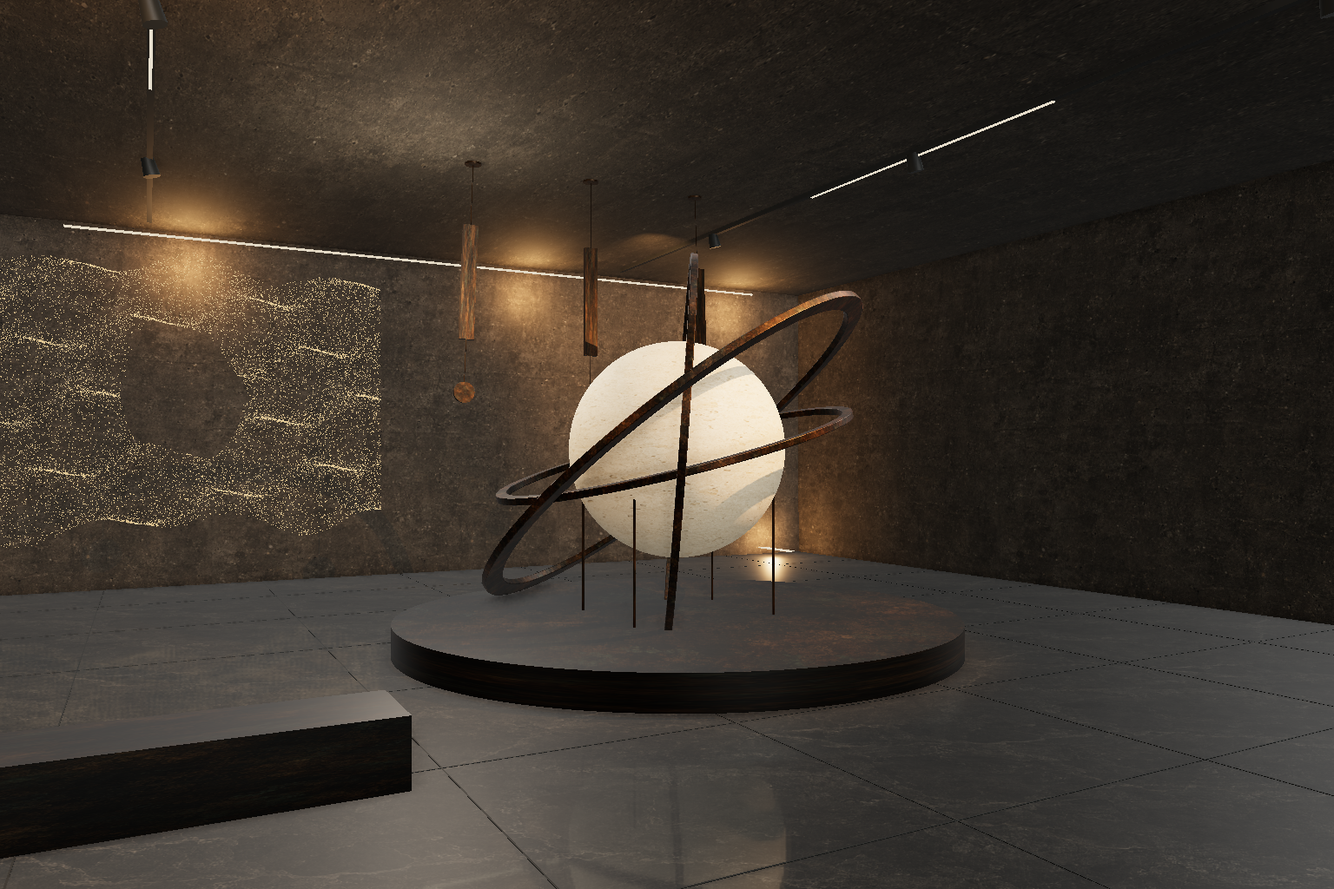
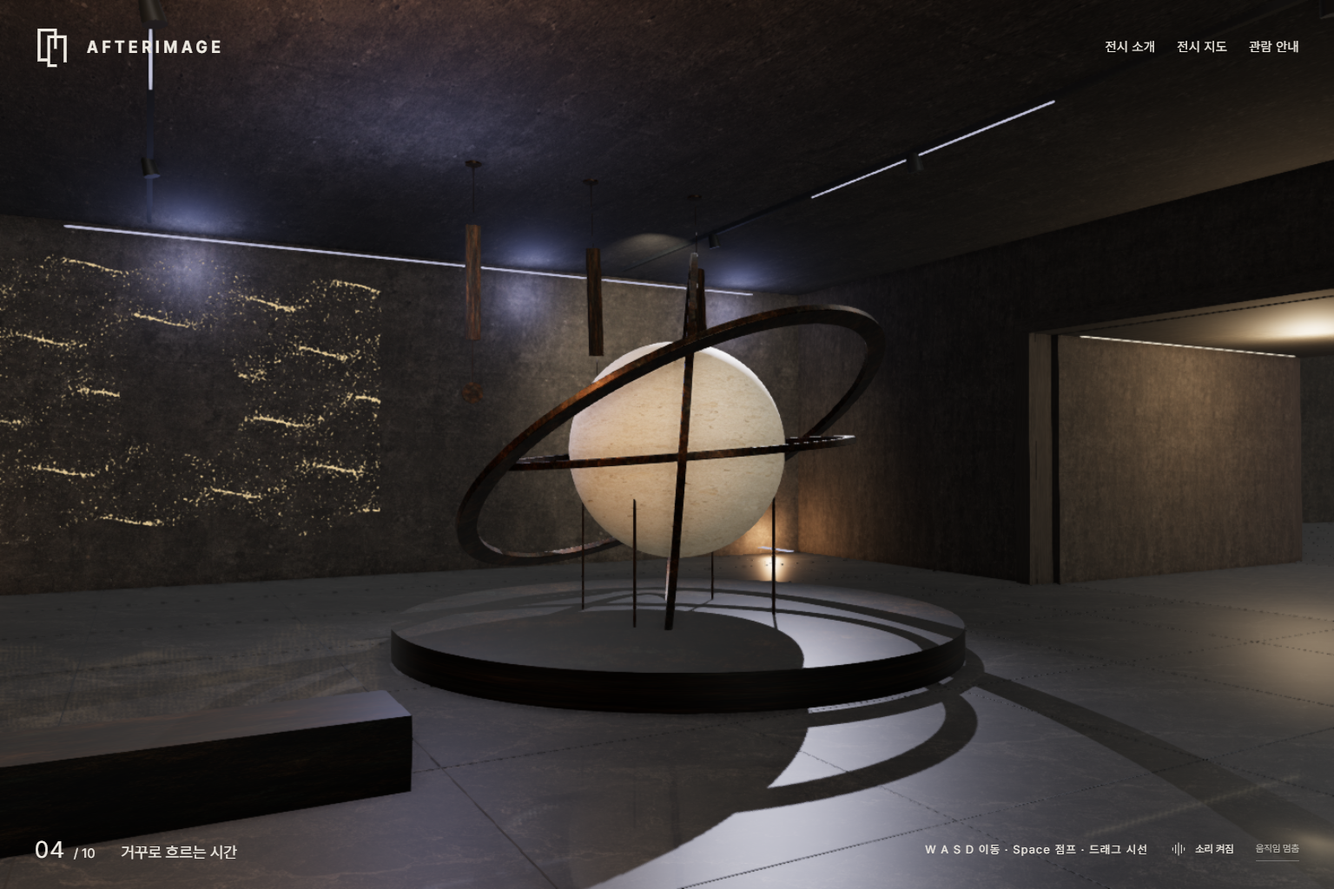
Separate artwork descriptions and tailor room lighting with mobile running

diff --git a/src/scene.js b/src/scene.js
@@ -13,6 +13,7 @@ import {sceneEffects} from './scene-effects';
 import {batchRoomArchitecture} from './static-room-batches';
 import {prepareRooms} from './room-preparation';
 import {lightingRig} from './lighting-rig';
+import {roomLighting} from './room-lighting';
 import {preparationFrame} from './preparation-scheduler';
 
 export async function createExhibition(host,events,{signal}={}){
@@ -33,6 +34,8 @@ export async function createExhibition(host,events,{signal}={}){
  const look=angularMotion(camera.rotation.y,camera.rotation.x,-1.1,1.1);
  const orbit=angularMotion(0,.05,-.2,.55);let rotationSpeed=0,stepDistance=0,shadowTime=0,renderScale=1,perfTime=0,perfFrames=0,perfNext=performance.now()+3500;
  const hemi=new T.HemisphereLight(0xb9c5ce,0x3a3025,.9);scene.add(hemi);
+ let lightMood=roomLighting[0];const moodSky=new T.Color(lightMood.sky),moodGround=new T.Color(lightMood.ground);
+ const blendLighting=dt=>{const blend=prepared&&motion?1-Math.exp(-dt*6):1;hemi.color.lerp(moodSky,blend);hemi.groundColor.lerp(moodGround,blend);hemi.intensity=T.MathUtils.lerp(hemi.intensity,lightMood.ambient,blend);scene.environmentIntensity=T.MathUtils.lerp(scene.environmentIntensity,lightMood.environment,blend);};
  const cube=(parent,w,h,d,x,y,z,mat)=>{const m=new T.Mesh(new T.BoxGeometry(w,h,d),mat);m.position.set(x,y,z);m.receiveShadow=true;m.castShadow=true;parent.add(m);return m;};
  const doors=rooms.map(()=>new Set());connections.forEach(([a,b])=>{const A=rooms[a],B=rooms[b];if(A.x===B.x){doors[a].add(B.z<A.z?'north':'south');doors[b].add(B.z<A.z?'south':'north');}else{doors[a].add(B.x>A.x?'east':'west');doors[b].add(B.x>A.x?'west':'east');}});
  function label(text,w=1.2,h=.8){const c=document.createElement('canvas');c.width=512;c.height=256;const ctx=c.getContext('2d');ctx.clearRect(0,0,512,256);ctx.fillStyle='#ded8c9';ctx.font='400 70px Pretendard, sans-serif';ctx.fillText(text,35,105);const texture=new T.CanvasTexture(c);texture.colorSpace=T.SRGBColorSpace;const m=new T.Mesh(new T.PlaneGeometry(w,h),new T.MeshBasicMaterial({map:texture,transparent:true,depthWrite:false}));return m;}
@@ -63,6 +66,7 @@ export async function createExhibition(host,events,{signal}={}){
  }
  const surface=(url,repeat)=>{const t=artLoader.load(assetUrl(url));t.colorSpace=T.SRGBColorSpace;t.wrapS=t.wrapT=T.RepeatWrapping;t.repeat.set(...repeat);t.anisotropy=8;return t;};const concrete=surface('/art/concrete.webp',[3,1]),slate=surface('/art/stone.webp',[4,4]),limestone=surface('/art/limestone-match.webp',[1,2]),patina=surface('/art/bronze-match.webp',[1,1]),rock=surface('/art/rock-match.webp',[2,2]);mats.wall.map=mats.wall.bumpMap=concrete;mats.wall.color.set(0xb4aca0);mats.ceiling.color.set(0xa4a299);mats.wall.bumpScale=.025;mats.ceiling.map=concrete;mats.floor.map=mats.floor.bumpMap=slate;mats.floor.color.set(0x9c9589);mats.floor.bumpScale=.009;mats.floor.roughness=.5;mats.plinth.map=mats.plinth.bumpMap=patina;mats.plinth.color.set(0x424440);mats.plinth.roughness=.42;mats.stone.map=mats.stone.bumpMap=rock;mats.stone.color.set(0xaaa89e);mats.stone.bumpScale=.028;mats.ivory.map=mats.ivory.bumpMap=limestone;mats.ivory.color.set(0xd4ccb9);mats.ivory.bumpScale=.007;mats.ivory.roughness=.72;mats.bronze.map=mats.bronze.bumpMap=patina;mats.bronze.color.set(0x8c8379);mats.bronze.metalness=.78;mats.bronze.roughness=.48;mats.bronze.bumpScale=.015;mats.blue.map=mats.blue.bumpMap=limestone;mats.blue.bumpScale=.012;mats.blue.roughness=.4;mats.blue.color.set(0x577caf);mats.leaf=new T.MeshStandardMaterial({color:0xc9c1a6,metalness:.72,roughness:.33,side:T.DoubleSide,map:limestone});
  for(const r of rooms){
+  const lighting=roomLighting[r.id],stripMaterial=new T.MeshBasicMaterial({color:lighting.strip});
   const root=new T.Group();root.position.set(r.x,0,r.z);scene.add(root);groups.push(root);floorRects.push({x:r.x,z:r.z,w:16,d:16});
   const floor=cube(root,16,.15,16,0,-.085,0,mats.floor);floor.castShadow=false;floor.material=mats.floor.clone();roomFloors.push(floor);
   for(let tile=-8;tile<=8;tile+=2){const a=cube(root,.009,.003,16,tile,-.008,0,mats.black),b=cube(root,16,.003,.009,0,-.008,tile,mats.black);a.castShadow=b.castShadow=false;}
@@ -70,12 +74,12 @@ export async function createExhibition(host,events,{signal}={}){
   // Concrete formwork joints give scale without decorative interface marks.
   for(let x=-7;x<=7;x+=3.5){cube(root,.012,4.9,.015,x,2.5,-7.86,mats.black);}
   for(let y=1.5;y<5;y+=1.5)cube(root,15.7,.009,.015,0,y,-7.86,mats.black);
-  for(let x of [-3.5,3.5]){cube(root,.06,.07,14,x,4.98,0,mats.black);cube(root,r.id===4?.32:.025,.014,r.id===4?12:3.5,x,4.93,0,r.id===4?new T.MeshBasicMaterial({color:0x75aaff}):mats.light);for(let z of [-4,0,4]){const fixture=new T.Mesh(new T.CylinderGeometry(.065,.085,.19,10),mats.black);fixture.position.set(x,4.87,z);fixture.rotation.z=.25;root.add(fixture);}}
+  for(let x of [-3.5,3.5]){cube(root,.06,.07,14,x,4.98,0,mats.black);cube(root,r.id===4?.32:.025,.014,r.id===4?12:3.5,x,4.93,0,stripMaterial);for(let z of [-4,0,4]){const fixture=new T.Mesh(new T.CylinderGeometry(.065,.085,.19,10),mats.black);fixture.position.set(x,4.87,z);fixture.rotation.z=.25;root.add(fixture);}}
   const sculpture=createSculpture(r.id,mats);sculpture.group.position.set(1,.02,-.6);sculpture.group.userData.id=r.id;root.add(sculpture.group);selectable.push(sculpture.group);animations.push({id:r.id,updates:sculpture.animated});obstacles.push({x:r.x+1,z:r.z-.6,w:r.id===2?6.5:r.id===4?6.5:5.2,d:r.id===2?3.2:3.6});
-  const spot=new T.SpotLight(r.color,170,24,.63,.5,2);spot.position.set(3.5,4.8,3);spot.target.position.set(1,1,-.6);spot.castShadow=r.id===0;spot.shadow.mapSize.set(2048,2048);spot.shadow.bias=-.0002;spot.shadow.normalBias=.025;root.add(spot,spot.target);spots.push(spot);
-  const ceilingFill=new T.PointLight(0xf3dec6,18,18,2);ceilingFill.position.set(-1,3.5,-2);root.add(ceilingFill);
-  const fill=new T.PointLight(r.color,28,12,2);fill.position.set(-4,4,2);fill.userData.peek=true;root.add(fill);
-  const wallLight=new T.SpotLight(r.color,95,15,.8,.7,2);wallLight.position.set(r.id===3?2.4:-4,4.8,-4);wallLight.target.position.set(r.id===3?4.8:r.id===0?-5:-4.75,2.6,-7.6);root.add(wallLight,wallLight.target);
+  const spot=new T.SpotLight(lighting.key.color,lighting.key.power,24,lighting.key.angle,lighting.key.softness,2);spot.position.set(...lighting.key.position);spot.target.position.set(1,1.7,-.6);spot.castShadow=r.id===0;spot.shadow.mapSize.set(2048,2048);spot.shadow.bias=-.0002;spot.shadow.normalBias=.025;root.add(spot,spot.target);spots.push(spot);
+  const ceilingFill=new T.PointLight(lighting.ceiling.color,lighting.ceiling.power,18,2);ceilingFill.position.set(-1,3.5,-2);root.add(ceilingFill);
+  const fill=new T.PointLight(lighting.fill.color,lighting.fill.power,12,2);fill.position.set(...lighting.fill.position);fill.userData.peek=true;root.add(fill);
+  const wallLight=new T.SpotLight(lighting.wash.color,lighting.wash.power,15,.8,.7,2);wallLight.position.set(r.id===3?2.4:-4,4.8,-4);wallLight.target.position.set(r.id===3?4.8:r.id===0?-5:-4.75,2.6,-7.6);root.add(wallLight,wallLight.target);
   const texture=r.id===0?artLoader.load(paintingUrl(r.id)):new T.Texture(placeholder);texture.colorSpace=T.SRGBColorSpace;texture.anisotropy=Math.min(4,renderer.capabilities.getMaxAnisotropy());if(r.id!==0){texture.needsUpdate=true;pendingPaintings.push({id:r.id,url:paintingUrl(r.id),texture});}
   const painting=new T.Group();painting.position.set(r.id===0?-.8:r.id===3?4.8:r.id===5?-4.45:-2.7,r.id===5?2.5:2.45,-7.6);if(r.id!==3){painting.position.set(r.id===0?-5:-4.75,2.6,-7.6);}painting.userData={id:r.id,kind:'painting'};const pw=r.id===2?3.35:r.id===3?1.5:r.id===5?2.8:4.6,ph=r.id===2?4.3:r.id===3?2.1:r.id===5?2.1:3.05;cube(painting,pw+.15,ph+.15,.12,0,0,0,mats.black);cube(painting,pw+.075,.035,.14,0,ph/2+.025,.02,mats.bronze);cube(painting,pw+.075,.035,.14,0,-ph/2-.025,.02,mats.bronze);cube(painting,.035,ph,.14,-pw/2-.025,0,.02,mats.bronze);cube(painting,.035,ph,.14,pw/2+.025,0,.02,mats.bronze);const pm=new T.Mesh(new T.PlaneGeometry(pw,ph),new T.MeshStandardMaterial({map:texture,roughness:.92,emissiveMap:texture,emissive:0xffffff,emissiveIntensity:.045}));pm.position.z=.085;painting.add(pm);root.add(painting);selectable.push(painting);
   const n=label(r.number,.8,.5);n.position.set(6.3,2.1,-7.85);root.add(n);const placard=label(`${r.number}  AFTERIMAGE`,1,.5);placard.position.set(-.05,1.5,-7.85);root.add(placard);
@@ -91,7 +95,7 @@ export async function createExhibition(host,events,{signal}={}){
  let reflectionDirty=true,reflectionNext=0,reflector=null;if(host.clientWidth>700){reflector=new Reflector(new T.PlaneGeometry(maxX-minX+22,maxZ-minZ+18),{clipBias:.002,textureWidth:640,textureHeight:480,multisample:0,color:0x9a9d96});reflector.position.set((minX+maxX)/2,-.012,(minZ+maxZ)/2);reflector.rotation.x=-Math.PI/2;const reflect=reflector.onBeforeRender;reflector.onBeforeRender=function(renderer,scene,...args){if(!scene.overrideMaterial&&(reflectionDirty||performance.now()>=reflectionNext)){reflectionDirty=false;reflectionNext=performance.now()+32;reflect.call(this,renderer,scene,...args);}};reflector.material.fragmentShader=reflector.material.fragmentShader.replace('vec4 base = texture2DProj( tDiffuse, vUv );','vec4 base = texture2DProj( tDiffuse, vUv ) * .4; base += texture2DProj( tDiffuse, vUv + vec4(.004*vUv.w,0.,0.,0.) ) * .15; base += texture2DProj( tDiffuse, vUv - vec4(.004*vUv.w,0.,0.,0.) ) * .15; base += texture2DProj( tDiffuse, vUv + vec4(0.,.004*vUv.w,0.,0.) ) * .15; base += texture2DProj( tDiffuse, vUv - vec4(0.,.004*vUv.w,0.,0.) ) * .15;');reflector.material.fragmentShader=reflector.material.fragmentShader.replace('gl_FragColor = vec4( blendOverlay( base.rgb, color ), 1.0 );','gl_FragColor = vec4(mix(vec3(dot(base.rgb,vec3(.2126,.7152,.0722))),base.rgb,.65)*color,1.0);');scene.add(reflector);groups.forEach(g=>{const f=g.children[0];f.material.transparent=true;f.material.opacity=.87;f.material.depthWrite=false;});}
  // Logo emblem and letterforms are actual extruded solid geometry on the entrance wall.
  const sign=new T.Group();sign.position.set(-7.65,3.85,1);sign.rotation.y=Math.PI/2;groups[0].add(sign);for(let i=0;i<2;i++){const m=extrudePortal(mats.ivory,.32,.59,.045,.045,true);m.position.set(i*.18,-i*.11,0);sign.add(m);}new FontLoader(manager).load(assetUrl('/fonts/helvetiker_bold.typeface.json'),font=>{const geo=new TextGeometry('AFTERIMAGE',{font,size:.23,depth:.025,curveSegments:5,bevelEnabled:false});const word=new T.Mesh(geo,mats.ivory);word.position.set(.72,.17,.02);word.scale.x=.72;sign.add(word);});
- function activateLighting(id){rig.activate(id);}
+ function activateLighting(id){rig.activate(id);lightMood=roomLighting[id];moodSky.set(lightMood.sky);moodGround.set(lightMood.ground);if(!prepared||!motion)blendLighting(0);host.dataset.lighting=lightMood.name;}
  groups.forEach(batchRoomArchitecture);
  scene.traverse(object=>{if(object.isMesh&&!object.geometry.boundingBox)object.geometry.computeBoundingBox();});
  // The interaction selects an entire artwork, so a padded artwork bound is
@@ -123,12 +127,12 @@ export async function createExhibition(host,events,{signal}={}){
  function setRenderResolution(){const w=host.clientWidth,h=host.clientHeight;const budget=w<700?950000:1800000;const ratio=Math.min(devicePixelRatio,1.6,Math.sqrt(budget/(w*h)))*renderScale;renderer.setPixelRatio(ratio);renderer.setSize(w,h);effects.resize(w,h,ratio);host.dataset.renderScale=renderScale.toFixed(2);}
  function resize(){const w=host.clientWidth,h=host.clientHeight;setRenderResolution();if(reflector){reflector.visible=w>700;roomFloors.forEach(floor=>{floor.material.opacity=w>700?.87:1;});}camera.aspect=w/h;camera.fov=w<600?72:50;camera.updateProjectionMatrix();if(inspect)updateInspect();}
  const observer=new ResizeObserver(resize);observer.observe(host);canvas.addEventListener('pointerdown',pointerDown);canvas.addEventListener('pointermove',pointerMove);canvas.addEventListener('pointerup',pointerUp);canvas.addEventListener('pointercancel',clear);window.addEventListener('keydown',keydown);window.addEventListener('keyup',keyup);window.addEventListener('blur',clear);document.addEventListener('visibilitychange',clear);
- function tick(){if(disposed)return;frame=requestAnimationFrame(tick);const now=performance.now(),lastFrameTime=lastTime,dt=Math.min((now-lastTime)/1000,.04);lastTime=now;if(prepared&&!document.hidden&&presentationVisible){if(motion)elapsed+=dt;if(enabled){look.tick(dt,motion);camera.rotation.y=look.state.x;camera.rotation.x=look.state.y;let f=(keys.has('KeyW')||keys.has('ArrowUp')?1:0)-(keys.has('KeyS')||keys.has('ArrowDown')?1:0),s=(keys.has('KeyD')||keys.has('ArrowRight')?1:0)-(keys.has('KeyA')||keys.has('ArrowLeft')?1:0);f+=touch?.forward||0;s+=touch?.side||0;if(f||s){const norm=Math.hypot(f,s),speed=dt*Math.min(1,norm)*(keys.has('ShiftLeft')||keys.has('ShiftRight')?5:2.8),a=camera.rotation.y,oldX=camera.position.x,oldZ=camera.position.z;const dx=(-Math.sin(a)*f+Math.cos(a)*s)/norm*speed,dz=(-Math.cos(a)*f-Math.sin(a)*s)/norm*speed;if(allowed(camera.position.x+dx,camera.position.z))camera.position.x+=dx;if(allowed(camera.position.x,camera.position.z+dz))camera.position.z+=dz;if(jumpHeight===0&&jumpVelocity===0){stepDistance+=Math.hypot(camera.position.x-oldX,camera.position.z-oldZ);if(stepDistance>1.35){stepDistance=0;events.step?.();}}transition=null;}
+ function tick(){if(disposed)return;frame=requestAnimationFrame(tick);const now=performance.now(),lastFrameTime=lastTime,dt=Math.min((now-lastTime)/1000,.04);lastTime=now;if(prepared&&!document.hidden&&presentationVisible){if(motion)elapsed+=dt;if(enabled){look.tick(dt,motion);camera.rotation.y=look.state.x;camera.rotation.x=look.state.y;let f=(keys.has('KeyW')||keys.has('ArrowUp')?1:0)-(keys.has('KeyS')||keys.has('ArrowDown')?1:0),s=(keys.has('KeyD')||keys.has('ArrowRight')?1:0)-(keys.has('KeyA')||keys.has('ArrowLeft')?1:0);f+=touch?.forward||0;s+=touch?.side||0;if(f||s){const norm=Math.hypot(f,s),run=T.MathUtils.clamp((Math.hypot(touch?.forward||0,touch?.side||0)-.75)/.25,0,1),speed=dt*Math.min(1,norm)*(keys.has('ShiftLeft')||keys.has('ShiftRight')?5:T.MathUtils.lerp(2.8,5,run)),a=camera.rotation.y,oldX=camera.position.x,oldZ=camera.position.z;const dx=(-Math.sin(a)*f+Math.cos(a)*s)/norm*speed,dz=(-Math.cos(a)*f-Math.sin(a)*s)/norm*speed;if(allowed(camera.position.x+dx,camera.position.z))camera.position.x+=dx;if(allowed(camera.position.x,camera.position.z+dz))camera.position.z+=dz;if(jumpHeight===0&&jumpVelocity===0){stepDistance+=Math.hypot(camera.position.x-oldX,camera.position.z-oldZ);if(stepDistance>1.35){stepDistance=0;events.step?.();}}transition=null;}
  if(jumpHeight>0||jumpVelocity>0){jumpHeight+=jumpVelocity*dt-.5*gravity*dt*dt;jumpVelocity-=gravity*dt;if(jumpHeight<=0){jumpHeight=jumpVelocity=0;stepDistance=0;events.step?.();}camera.position.y=eyeHeight+jumpHeight;}
  const closest=rooms.reduce((best,r)=>Math.hypot(camera.position.x-r.x,camera.position.z-r.z)<Math.hypot(camera.position.x-best.x,camera.position.z-best.z)?r:best,rooms[0]);updateRoom(closest.id);lastScan+=dt;if(lastScan>.18){scan();lastScan=0;}}
  if(inspect&&inspect.kind==='sculpture'){const desired=rotate&&!orbit.state.held ? .24:0;rotationSpeed=motion?T.MathUtils.damp(rotationSpeed,desired,5,dt):desired;orbit.tick(dt,motion,rotationSpeed);inspect.angle=orbit.state.x;inspect.tilt=orbit.state.y;updateInspect();}
  if(transition){transition.t=Math.min(1,transition.t+dt/1.2);const t=1-Math.pow(1-transition.t,3);camera.position.lerpVectors(transition.from,transition.to,t);if(transition.t===1)transition=null;}
- animations.forEach(({id,updates})=>{if(Math.abs(rooms[id].x-camera.position.x)<26&&Math.abs(rooms[id].z-camera.position.z)<26)updates.forEach(fn=>fn(elapsed));});shadowTime+=dt;if(motion&&shadowTime>.12&&animations.some(a=>a.id===current&&a.updates.length)){renderer.shadowMap.needsUpdate=true;shadowTime=0;}effects.render();if(now>perfNext){perfTime+=now-lastFrameTime;perfFrames++;if(perfTime>=900){if(perfTime/perfFrames>19.5&&renderScale>.71){renderScale=Math.max(.7,renderScale*.9);setRenderResolution();}perfTime=perfFrames=0;perfNext=now+1200;}}host.dataset.position=`${camera.position.x.toFixed(2)},${camera.position.z.toFixed(2)}`;host.dataset.height=camera.position.y.toFixed(3);host.dataset.jumping=String(jumpHeight>0||jumpVelocity>0);host.dataset.view=`${camera.rotation.y.toFixed(3)},${camera.rotation.x.toFixed(3)}`;}}
+ animations.forEach(({id,updates})=>{if(Math.abs(rooms[id].x-camera.position.x)<26&&Math.abs(rooms[id].z-camera.position.z)<26)updates.forEach(fn=>fn(elapsed));});shadowTime+=dt;if(motion&&shadowTime>.12&&animations.some(a=>a.id===current&&a.updates.length)){renderer.shadowMap.needsUpdate=true;shadowTime=0;}blendLighting(dt);effects.render();if(now>perfNext){perfTime+=now-lastFrameTime;perfFrames++;if(perfTime>=900){if(perfTime/perfFrames>19.5&&renderScale>.71){renderScale=Math.max(.7,renderScale*.9);setRenderResolution();}perfTime=perfFrames=0;perfNext=now+1200;}}host.dataset.position=`${camera.position.x.toFixed(2)},${camera.position.z.toFixed(2)}`;host.dataset.height=camera.position.y.toFixed(3);host.dataset.jumping=String(jumpHeight>0||jumpVelocity>0);host.dataset.view=`${camera.rotation.y.toFixed(3)},${camera.rotation.x.toFixed(3)}`;}}
  buildingDone=true;resize();tick();if(assetBatchDone)prepare();
  return {go,jump,enter(){if(motion)transition={from:camera.position.clone(),to:camera.position.clone().add(new T.Vector3(.3,0,-.4)),t:0};canvas.focus({preventScroll:true});},setEnabled(v){enabled=v;if(!v)clear();else canvas.focus({preventScroll:true});},setMotion(v){motion=v;clear();},setPresentationVisible(v){presentationVisible=v;},inspect:inspectArt,rotate:v=>{rotate=v;orbit.state.vx=orbit.state.vy=0;},resetInspect,pickNearest:()=>showArt(nearest),setTouchVector(side,forward){if(enabled)touch={side:T.MathUtils.clamp(side,-1,1),forward:T.MathUtils.clamp(forward,-1,1)};},stopTouch(){touch=null;},dispose(){disposed=true;cancelAnimationFrame(frame);observer.disconnect();canvas.removeEventListener('pointerdown',pointerDown);canvas.removeEventListener('pointermove',pointerMove);canvas.removeEventListener('pointerup',pointerUp);canvas.removeEventListener('pointercancel',clear);window.removeEventListener('keydown',keydown);window.removeEventListener('keyup',keyup);window.removeEventListener('blur',clear);document.removeEventListener('visibilitychange',clear);const geometries=new Set(),materials=new Set(),textures=new Set();scene.traverse(o=>{if(o.geometry)geometries.add(o.geometry);if(o.material)(Array.isArray(o.material)?o.material:[o.material]).forEach(m=>{materials.add(m);if(o.customDepthMaterial)materials.add(o.customDepthMaterial);Object.values(m).forEach(t=>{if(t?.isTexture)textures.add(t);});});});geometries.forEach(g=>g.dispose());materials.forEach(m=>m.dispose());textures.forEach(t=>t.dispose());reflector?.getRenderTarget().dispose();rig.shadowSpot.shadow.map?.dispose();env.dispose();pmrem.dispose();effects.dispose();renderer.dispose();canvas.remove();}};
 }

diff --git a/src/data.js b/src/data.js
@@ -1,17 +1,17 @@
 import {assetUrl} from './asset-url';
 export const rooms = [
- {id:0, number:'01', title:'낮은 하늘', en:'A LOWER SKY', x:0,z:0,color:0xffd4a2, sculpture:'통과하지 못한 문', artist:'서이안', medium:'석회석, 두 개의 문틀 · 2026', painting:'문 너머의 저녁', note:'문을 통과하면 다른 곳에 도착할 것이라 믿었다. 그러나 이 문은 어디에도 연결되지 않는다. 두 개의 어긋난 틀 사이에, 아직 떠나지 못한 시간이 남아 있다.'},
- {id:1, number:'02', title:'잠든 정원', en:'THE SLEEPING GARDEN', x:22,z:0,color:0xe9e4ce, sculpture:'중력 없는 가지', artist:'한서림', medium:'황동, 얇은 알루미늄, 돌 · 2026', painting:'밤에만 자라는 것들', note:'뿌리는 돌 속에 잠들고, 잎은 공중에서 천천히 흔들린다. 정원은 사람이 떠난 뒤에야 제 속도로 자란다. 움직임을 재촉하지 않고 조금 더 머물러 보자.'},
- {id:2, number:'03', title:'얼굴 없는 초상', en:'PORTRAITS WITHOUT A FACE', x:44,z:0,color:0xffc993, sculpture:'이름을 잊은 세 사람', artist:'윤모래', medium:'구리, 주름진 석고 · 2026', painting:'알 수 없는 초상', note:'얼굴이 사라졌다고 해서 존재까지 사라지는 것은 아니다. 천의 주름과 고개를 기울인 각도에 서로 다른 기억이 남는다. 우리는 얼굴보다 오래 무엇을 기억할까.'},
- {id:3, number:'04', title:'거꾸로 흐르는 시간', en:'TIME RUNNING BACKWARDS', x:44,z:-22,color:0xffbf78, sculpture:'불완전한 공전', artist:'류하온', medium:'산화 구리, 석고, 운동 장치 · 2026', painting:'끝나지 않는 일식', note:'원은 돌아오지만 같은 순간으로 돌아오지는 않는다. 서로 다른 속도로 회전하는 두 궤도, 한 박자 어긋난 추. 여기에서는 지나간 순간이 다음 순간을 기다린다.'},
- {id:4, number:'05', title:'남겨진 바다', en:'THE SEA THAT REMAINS', x:22,z:-22,color:0xb3d2ff, sculpture:'파도의 뼈', artist:'도유진', medium:'청색 알루미늄, 부유하는 돌 · 2026', painting:'해수면 위의 정적', note:'물이 사라진 자리에도 파도의 모양은 남아 있다. 서른두 개의 단면이 한 번도 멈춘 적 없는 움직임을 붙잡는다. 돌은 떨어질 듯, 끝내 떨어지지 않는다.'},
- {id:5, number:'06', title:'깨어나기 직전', en:'BEFORE WAKING', x:0,z:-22,color:0xffedcf, sculpture:'다음 장면의 입구', artist:'차은오', medium:'석고, 빛, 비스듬한 문 · 2026', painting:'아무 일도 없는 아침', note:'꿈의 마지막 장면은 늘 입구와 닮아 있다. 빛이 닿는 가장자리를 따라, 이곳에서 본 것들이 서서히 희미해진다. 남는 것은 형태보다 오래 지속되는 감각이다.'},
- {id:6, number:'07', title:'접힌 빛', en:'FOLDED LIGHT', x:66,z:0,color:0xffe2b5, sculpture:'빛이 머무는 접힘', artist:'이서온', medium:'석고, 굽힌 면 · 2026', painting:'종이 사이의 오후', note:'빛은 평평한 면 위에 오래 머무르지 못한다. 천천히 접힌 곡면이 밝음과 그늘을 서로 다른 방향으로 돌려보낸다. 같은 형태를 한 바퀴 돌아보면, 접힘은 펼쳐짐과 닮아 있다.'},
- {id:7, number:'08', title:'고요한 균형', en:'A QUIET BALANCE', x:88,z:0,color:0xffe7c6, sculpture:'서로의 무게', artist:'문해솔', medium:'황동, 세 개의 석고 타원, 균형 장치 · 2026', painting:'떠오르는 섬', note:'가장 가벼운 움직임에도 전체의 균형은 달라진다. 세 개의 타원은 서로의 무게를 기다리며 작은 원을 그린다. 멈춰 있는 것처럼 보이는 순간에도 관계는 계속 움직인다.'},
- {id:8, number:'09', title:'여백의 층', en:'LAYERS OF SILENCE', x:88,z:-22,color:0xd5e5ef, sculpture:'말하지 않은 일곱 문장', artist:'백여린', medium:'석고, 일곱 개의 곡면 · 2026', painting:'안개가 지나는 자리', note:'일곱 개의 면 사이에는 아무것도 놓이지 않았다. 그러나 관람자가 옆으로 움직일 때마다 그 빈틈이 다른 풍경을 만든다. 여기에서 중요한 것은 형태보다 형태 사이의 거리다.'},
- {id:9, number:'10', title:'숨의 결', en:'THE SHAPE OF BREATH', x:66,z:-22,color:0xffdcc7, sculpture:'천천히, 다시', artist:'정하루', medium:'석고, 황동, 나선형 띠 · 2026', painting:'빛이 돌아오는 시간', note:'숨은 같은 길을 오가지만 매번 조금 다른 시간을 남긴다. 넓은 띠가 천천히 올라가며 안과 밖을 바꾼다. 마지막 장면에서 다시 시작되는 것은 움직임보다 작은 여유다.'}
+ {id:0, number:'01', title:'낮은 하늘', en:'A LOWER SKY', x:0,z:0,color:0xffd4a2, sculpture:'통과하지 못한 문', artist:'서이안', medium:'석회석, 두 개의 문틀 · 2026', painting:'문 너머의 저녁', sculptureNote:'서로 어긋난 두 개의 석회석 문틀이 한 방향을 바라본다. 겹쳐 보이던 틀은 관람자가 옆으로 움직이면 두께와 간격을 드러낸다. 통과할 수 없는 문 사이에, 아직 떠나지 못한 시간이 남아 있다.', paintingNote:'해가 낮게 내려앉은 황량한 땅 위에 문틀 하나가 서 있다. 구름과 바위에는 저녁빛이 번지고, 열린 문 너머에도 같은 풍경이 이어진다. 다른 곳으로 향하려는 기대와 제자리에 남은 장면을 함께 그렸다.'},
+ {id:1, number:'02', title:'잠든 정원', en:'THE SLEEPING GARDEN', x:22,z:0,color:0xe9e4ce, sculpture:'중력 없는 가지', artist:'한서림', medium:'황동, 얇은 알루미늄, 돌 · 2026', painting:'밤에만 자라는 것들', sculptureNote:'돌에서 뻗은 가느다란 황동 가지 위로 얇은 잎들이 펼쳐진다. 공중에 매달린 가지는 아주 작은 움직임으로 정원의 시간을 만든다. 단단한 뿌리와 가벼운 잎 사이에서, 중력은 잠시 느슨해진다.', paintingNote:'보름달 아래의 정원에 흰 꽃과 어두운 나무가 함께 놓여 있다. 물에 비친 달빛은 오래된 아치와 연못의 경계를 잇는다. 사람이 사라진 밤에도 조용히 자라는 생명의 장면이다.'},
+ {id:2, number:'03', title:'얼굴 없는 초상', en:'PORTRAITS WITHOUT A FACE', x:44,z:0,color:0xffc993, sculpture:'이름을 잊은 세 사람', artist:'윤모래', medium:'구리, 주름진 석고 · 2026', painting:'알 수 없는 초상', sculptureNote:'세 개의 흉상은 서로 다른 높이와 방향으로 놓여 있다. 얼굴을 덮은 천의 주름과 고개를 기울인 각도는 가까이 볼수록 다른 인상을 남긴다. 표정을 지운 자리에서, 각 인물을 구별하는 것은 자세와 거리다.', paintingNote:'베일에 가려진 얼굴 뒤로 구릿빛 원이 떠오른다. 어두운 바탕, 투명하게 겹친 천과 거친 금속의 표면이 한 인물 안에서 만난다. 이름과 표정이 사라진 뒤에도 남는 존재의 흔적을 그렸다.'},
+ {id:3, number:'04', title:'거꾸로 흐르는 시간', en:'TIME RUNNING BACKWARDS', x:44,z:-22,color:0xffbf78, sculpture:'불완전한 공전', artist:'류하온', medium:'산화 구리, 석고, 운동 장치 · 2026', painting:'끝나지 않는 일식', sculptureNote:'구를 둘러싼 금속 궤도는 서로 다른 속도로 회전하고, 그 뒤의 추는 작은 폭으로 흔들린다. 원은 돌아오지만 같은 순간으로 돌아오지는 않는다. 규칙적인 장치 사이에 한 박자씩 어긋나는 시간이 놓여 있다.', paintingNote:'검은 원이 해를 가린 하늘 아래로 절벽과 얕은 물길이 이어진다. 어두운 원의 가장자리에는 빛이 남아 있어, 장면은 완전한 밤에도 낮에도 닿지 못한다. 끝나지 않는 일식 속에 멈춘 시간을 담았다.'},
+ {id:4, number:'05', title:'남겨진 바다', en:'THE SEA THAT REMAINS', x:22,z:-22,color:0xb3d2ff, sculpture:'파도의 뼈', artist:'도유진', medium:'청색 알루미늄, 부유하는 돌 · 2026', painting:'해수면 위의 정적', sculptureNote:'서른두 개의 청색 단면이 나란히 서서 파도의 굴곡을 만든다. 옆에서는 얇은 면으로, 정면에서는 이어진 물결로 보인다. 그 곁의 돌은 미세하게 떠 움직이며, 물이 사라진 자리의 불안정한 균형을 남긴다.', paintingNote:'수평선 위에 돌 하나가 공중에 떠 있다. 잔물결과 구름은 평범한 바다의 시간을 따르지만, 돌만은 떨어지지 않는다. 익숙한 풍경에 하나의 정지된 순간을 놓아 바다의 고요를 낯설게 만들었다.'},
+ {id:5, number:'06', title:'깨어나기 직전', en:'BEFORE WAKING', x:0,z:-22,color:0xffedcf, sculpture:'다음 장면의 입구', artist:'차은오', medium:'석고, 빛, 비스듬한 문 · 2026', painting:'아무 일도 없는 아침', sculptureNote:'비스듬히 선 석고 문틀의 안쪽 가장자리에 빛이 흐른다. 기울어진 형태와 곧게 내려오는 빛이 서로 다른 방향을 만든다. 문은 다음 공간을 안내하기보다, 깨어나기 직전의 감각을 붙잡는 경계로 남는다.', paintingNote:'낮게 뜬 해의 빛이 구름 사이로 번지고, 잔잔한 바다에 길게 비친다. 먼 수평선에는 뚜렷한 사건도 인물도 없다. 잠에서 깨어날 때 잠시 머무는, 아직 이름 붙이지 않은 아침을 그렸다.'},
+ {id:6, number:'07', title:'접힌 빛', en:'FOLDED LIGHT', x:66,z:0,color:0xffe2b5, sculpture:'빛이 머무는 접힘', artist:'이서온', medium:'석고, 굽힌 면 · 2026', painting:'종이 사이의 오후', sculptureNote:'넓은 석고 면이 비틀리고 휘어지며 밝음과 그늘을 서로 다른 방향으로 돌려보낸다. 얇은 가장자리와 깊은 접힘은 보는 위치에 따라 번갈아 드러난다. 같은 형태를 한 바퀴 돌아보면, 접힘은 펼쳐짐과 닮아 있다.', paintingNote:'크림색과 황토색의 넓은 면이 종이처럼 겹쳐지고 휘어진다. 날카로운 경계 아래의 그늘과 거친 표면은 평면 안에 깊이를 만든다. 오후의 빛이 겹 사이에 잠시 머무는 순간을 색과 면으로 구성했다.'},
+ {id:7, number:'08', title:'고요한 균형', en:'A QUIET BALANCE', x:88,z:0,color:0xffe7c6, sculpture:'서로의 무게', artist:'문해솔', medium:'황동, 세 개의 석고 타원, 균형 장치 · 2026', painting:'떠오르는 섬', sculptureNote:'황동 팔에 매달린 세 개의 석고 타원이 작은 원을 그리며 움직인다. 한쪽의 움직임은 다른 쪽의 간격과 무게를 다르게 보이게 한다. 멈춰 있는 듯한 순간에도 서로의 균형을 계속 조율하는 구조다.', paintingNote:'옅은 안개와 금빛 수면 사이로 바위섬들이 솟아 있다. 먼 산은 흐려지고 가까운 바위만 단단한 윤곽을 남긴다. 빛과 물에 둘러싸인 섬들이 무게를 잃은 듯 보이는, 고요한 경계를 그렸다.'},
+ {id:8, number:'09', title:'여백의 층', en:'LAYERS OF SILENCE', x:88,z:-22,color:0xd5e5ef, sculpture:'말하지 않은 일곱 문장', artist:'백여린', medium:'석고, 일곱 개의 곡면 · 2026', painting:'안개가 지나는 자리', sculptureNote:'높이가 다른 일곱 개의 석고 곡면이 간격을 두고 나란히 놓인다. 관람자가 옆으로 움직일 때마다 면이 겹쳐지고 빈틈이 다시 열린다. 말하지 않은 문장처럼, 형태 사이의 거리가 감상의 리듬을 만든다.', paintingNote:'청회색 안개가 물과 산의 윤곽을 여러 겹으로 흐린다. 어두운 전경에서 밝은 먼 풍경으로 이어지는 붓질은 경계를 그리기보다 지운다. 빈 공간이 풍경을 연결하는 순간을 층처럼 쌓았다.'},
+ {id:9, number:'10', title:'숨의 결', en:'THE SHAPE OF BREATH', x:66,z:-22,color:0xffdcc7, sculpture:'천천히, 다시', artist:'정하루', medium:'석고, 황동, 나선형 띠 · 2026', painting:'빛이 돌아오는 시간', sculptureNote:'넓은 석고 띠가 나선으로 올라가며 안과 밖의 면을 번갈아 드러낸다. 황동 가장자리는 띠의 흐름을 따라 이어진다. 같은 길을 오가면서도 조금씩 달라지는 숨처럼, 하나의 형태 안에 반복과 여유를 담았다.', paintingNote:'복숭아빛 구름 사이로 커다란 해가 천천히 드러난다. 구름의 그늘은 회보라색으로 남고, 밝은 부분은 부드럽게 번진다. 전시의 마지막 장면을 끝이 아닌, 다시 빛이 돌아오는 시간으로 그렸다.'}
 ];
 // The original loop remains intact; the eastern loop opens from rooms 03/04.
 export const connections=[[0,1],[1,2],[2,3],[3,4],[4,5],[5,0],[2,6],[6,7],[7,8],[8,9],[9,3]];
-export const artInfo = (id,kind='sculpture') => ({...rooms[id],kind,name:kind==='painting'?rooms[id].painting:rooms[id].sculpture,medium:kind==='painting'?'디지털 회화 · 2026':rooms[id].medium});
+export const artInfo = (id,kind='sculpture') => ({...rooms[id],kind,name:kind==='painting'?rooms[id].painting:rooms[id].sculpture,medium:kind==='painting'?'디지털 회화 · 2026':rooms[id].medium,note:kind==='painting'?rooms[id].paintingNote:rooms[id].sculptureNote});
 export const paintingUrl = id => assetUrl(id === 0 ? '/art/painting-match.webp' : `/art/painting-match-${String(id+1).padStart(2,'0')}.webp`);

diff --git a/src/main.jsx b/src/main.jsx
@@ -20,7 +20,7 @@ function Dialog({title,onClose,children,className=''}){
 function Map({current,onGo,onArt,onClose}){
  return <Dialog title="전시 지도" onClose={onClose} className="map-modal"><p className="dialog-intro">열 개의 방. 원하는 곳부터 둘러보세요.</p><div className="floorplan"><ExhibitionPlan selected={current}/></div><div className="room-list">{rooms.map(r=><div key={r.id} className={`room-row ${current===r.id?'current':''}`}><button className="room-go" onClick={()=>onGo(r.id)} aria-label={`${r.number} ${r.title} 이동`}><span>{r.number}</span><span>{r.title}<small>{r.en}</small></span><span className="room-status">{current===r.id?'현재 위치':'입장'}</span></button><button className="catalog" onClick={()=>onArt(r.id,'sculpture')}>조각 감상</button><button className="catalog" onClick={()=>onArt(r.id,'painting')}>회화 감상</button></div>)}</div></Dialog>
 }
-function Guide({onClose,motion,onMotion,sound}){return <Dialog title="관람 안내" onClose={onClose}><p className="dialog-intro">서두르지 않고, 원하는 방향으로.</p><dl className="guide"><div><dt>걷기</dt><dd><kbd>W A S D</kbd> 또는 방향키<br/>빠르게 걷기 <kbd>Shift</kbd><br/>점프 <kbd>Space</kbd> / 모바일 점프 버튼</dd></div><div><dt>둘러보기</dt><dd>화면을 드래그해서 시선을 돌려요.<br/>모바일은 왼쪽 조이스틱, 오른쪽 화면 드래그.</dd></div><div><dt>작품 감상</dt><dd>조각이나 회화를 클릭해요.<br/>가까운 작품은 <kbd>E</kbd>로도 선택할 수 있어요.</dd></div><div><dt>다른 방</dt><dd>문을 지나 복도로 이동하거나<br/>전시 지도에서 방을 선택해요.</dd></div><div><dt>움직임</dt><dd><button className="catalog" onClick={onMotion}>{motion?'작품 움직임 멈추기':'작품 움직임 재생'}</button></dd></div><div><dt>소리</dt><dd><button className="catalog" aria-pressed={sound.enabled} onClick={sound.toggle}>{sound.enabled?'소리 끄기':'소리 켜기'}</button><label className="volume-control" htmlFor="sound-volume">배경음 음량 <output>{Math.round(sound.volume*100)}%</output><input id="sound-volume" type="range" min="0" max="1" step=".01" value={sound.volume} onChange={e=>sound.changeVolume(Number(e.target.value))}/></label><span className="sound-description">따뜻한 피아노 선율과 또렷한 발소리.<br/>다른 탭에서는 소리가 잠시 쉬어갑니다.</span>{sound.error&&<p className="sound-error" role="status">{sound.error}</p>}</dd></div></dl><p className="guide-note">모든 작품과 작가는 이 전시를 위해 만든 가상의 창작물입니다. 배경음은 이 전시를 위해 만든 피아노 계열의 선율입니다.</p></Dialog>}
+function Guide({onClose,motion,onMotion,sound}){return <Dialog title="관람 안내" onClose={onClose}><p className="dialog-intro">서두르지 않고, 원하는 방향으로.</p><dl className="guide"><div><dt>걷기</dt><dd><kbd>W A S D</kbd> 또는 방향키<br/>빠르게 걷기 <kbd>Shift</kbd><br/>점프 <kbd>Space</kbd> / 모바일 점프 버튼</dd></div><div><dt>둘러보기</dt><dd>화면을 드래그해서 시선을 돌려요.<br/>모바일은 왼쪽 조이스틱, 오른쪽 화면 드래그.<br/>조금 밀면 걷기, 끝까지 밀면 달리기.</dd></div><div><dt>작품 감상</dt><dd>조각이나 회화를 클릭해요.<br/>가까운 작품은 <kbd>E</kbd>로도 선택할 수 있어요.</dd></div><div><dt>다른 방</dt><dd>문을 지나 복도로 이동하거나<br/>전시 지도에서 방을 선택해요.</dd></div><div><dt>움직임</dt><dd><button className="catalog" onClick={onMotion}>{motion?'작품 움직임 멈추기':'작품 움직임 재생'}</button></dd></div><div><dt>소리</dt><dd><button className="catalog" aria-pressed={sound.enabled} onClick={sound.toggle}>{sound.enabled?'소리 끄기':'소리 켜기'}</button><label className="volume-control" htmlFor="sound-volume">배경음 음량 <output>{Math.round(sound.volume*100)}%</output><input id="sound-volume" type="range" min="0" max="1" step=".01" value={sound.volume} onChange={e=>sound.changeVolume(Number(e.target.value))}/></label><span className="sound-description">따뜻한 피아노 선율과 또렷한 발소리.<br/>다른 탭에서는 소리가 잠시 쉬어갑니다.</span>{sound.error&&<p className="sound-error" role="status">{sound.error}</p>}</dd></div></dl><p className="guide-note">모든 작품과 작가는 이 전시를 위해 만든 가상의 창작물입니다. 배경음은 이 전시를 위해 만든 피아노 계열의 선율입니다.</p></Dialog>}
 function Zoom({art,onClose}){const ref=useRef(null);useEffect(()=>{const before=document.activeElement;ref.current?.focus();const key=e=>{if(e.key==='Escape'){e.stopPropagation();onClose();}if(e.key==='Tab'){e.preventDefault();ref.current?.focus();}};document.addEventListener('keydown',key,true);return()=>{document.removeEventListener('keydown',key,true);before?.focus();};},[]);return <div className="zoom" role="dialog" aria-modal="true" aria-label="회화 확대"><button ref={ref} onClick={onClose}>확대 닫기</button><img src={paintingUrl(art.id)} alt={art.name}/></div>}
 function App(){
  const [entered,setEntered]=useState(false),[ready,setReady]=useState(false),[failed,setFailed]=useState(false),[room,setRoom]=useState(0),[modal,setModal]=useState(()=>location.hash==='#about'?'about':null),[art,setArt]=useState(null),[rotating,setRotating]=useState(false),[hint,setHint]=useState(''),[motion,setMotion]=useState(()=>!matchMedia('(prefers-reduced-motion: reduce)').matches);

diff --git a/src/room-lighting.js b/src/room-lighting.js
@@ -1,0 +1,14 @@
+// Key light models the sculpture; the near-neutral wash preserves painting colour.
+// Reuse the existing fixture pool, varying colour, direction and softness only.
+export const roomLighting = [
+ {name:'노을의 호박빛',sky:0xf2ac70,ground:0x493c53,ambient:.42,environment:.3,strip:0xffc08a,key:{color:0xffbf83,power:205,position:[-3,4.7,2.5],angle:.69,softness:.42},ceiling:{color:0xc7c8e7,power:10},fill:{color:0xd79567,power:35,position:[-5,3.1,1]},wash:{color:0xfff1e4,power:106}},
+ {name:'정원의 달빛',sky:0x91bdba,ground:0x273e37,ambient:.4,environment:.27,strip:0xc6e8dc,key:{color:0xe0eddb,power:178,position:[2.8,4.8,1],angle:.8,softness:.82},ceiling:{color:0x739f9b,power:22},fill:{color:0x82b99d,power:42,position:[-4,3.2,0]},wash:{color:0xf1f4ef,power:122}},
+ {name:'초상의 백색 측광',sky:0xc1c9dd,ground:0x4a302d,ambient:.3,environment:.25,strip:0xf1f1f4,key:{color:0xfff3e3,power:232,position:[-2.6,4.6,1.7],angle:.69,softness:.35},ceiling:{color:0xa49dac,power:10},fill:{color:0xc38d78,power:25,position:[4,3.4,-3]},wash:{color:0xfff1e6,power:110}},
+ {name:'일식의 청보라',sky:0x989ccf,ground:0x2c304a,ambient:.34,environment:.29,strip:0xacaedf,key:{color:0xe3e5ff,power:210,position:[3.7,4.8,-3],angle:.73,softness:.5},ceiling:{color:0x868fc2,power:24},fill:{color:0xffc28d,power:28,position:[-3,3.2,2]},wash:{color:0xfff1db,power:92}},
+ {name:'바다의 푸른 반사',sky:0x8ecbe9,ground:0x244757,ambient:.5,environment:.36,strip:0x83c6ec,key:{color:0xc9e8ff,power:208,position:[2.8,4.7,2],angle:.84,softness:.72},ceiling:{color:0x79b7df,power:24},fill:{color:0x79c1da,power:42,position:[-4,3.4,1]},wash:{color:0xeff7ff,power:110}},
+ {name:'깨어나는 새벽',sky:0xf6d4c9,ground:0x69565d,ambient:.66,environment:.38,strip:0xffe4d2,key:{color:0xffe9da,power:172,position:[-.5,4.8,2.6],angle:.86,softness:.92},ceiling:{color:0xf3d5c6,power:25},fill:{color:0xc9c7e5,power:31,position:[-4,3.7,1]},wash:{color:0xfff6ec,power:116}},
+ {name:'접힘을 가르는 금빛',sky:0xe6c394,ground:0x383b59,ambient:.36,environment:.29,strip:0xffdba5,key:{color:0xffdda5,power:244,position:[-3,4.7,.6],angle:.66,softness:.3},ceiling:{color:0xb1aecb,power:14},fill:{color:0xa8b4e2,power:29,position:[4,3.5,-2]},wash:{color:0xfff5e8,power:113}},
+ {name:'균형의 옅은 물빛',sky:0xc4dcd6,ground:0x48635f,ambient:.65,environment:.4,strip:0xd8ebe1,key:{color:0xf3f4e5,power:182,position:[1,4.8,2.6],angle:.9,softness:.94},ceiling:{color:0xb5d2c6,power:26},fill:{color:0xa8c9c3,power:34,position:[-4,3.8,1]},wash:{color:0xfff7e8,power:119}},
+ {name:'안개의 청회색',sky:0xc0d5e8,ground:0x455267,ambient:.72,environment:.34,strip:0xd8e5f3,key:{color:0xe3ecf6,power:161,position:[0,4.8,1.8],angle:.98,softness:1},ceiling:{color:0xa9c4de,power:27},fill:{color:0xb9cfec,power:36,position:[-4,3.8,1]},wash:{color:0xf1f6ff,power:124}},
+ {name:'숨의 샴페인빛',sky:0xf1c2b3,ground:0x65404f,ambient:.48,environment:.33,strip:0xffd8c7,key:{color:0xffdfc1,power:211,position:[3.1,4.7,-2.6],angle:.8,softness:.86},ceiling:{color:0xe2b8c3,power:24},fill:{color:0xe9b7c3,power:31,position:[-4,3.4,2]},wash:{color:0xfff3eb,power:119}}
+];

diff --git a/src/TouchControls.jsx b/src/TouchControls.jsx
@@ -8,9 +8,10 @@ export default function TouchControls({api}){
   const length=Math.hypot(dx,dy),clamp=length>radius?radius/length:1;
   handle.current.style.transform=`translate(${dx*clamp}px,${dy*clamp}px)`;
   const amount=Math.max(0,Math.min(1,(length/radius-.12)/.88));
+  stick.current.dataset.running=String(amount>.75);
   api.current?.setTouchVector(length?dx/length*amount:0,length?-dy/length*amount:0);
  };
- const reset=()=>{pointer.current=null;api.current?.stopTouch();if(handle.current)handle.current.style.transform='translate(0,0)';if(stick.current)stick.current.dataset.active='false';};
+ const reset=()=>{pointer.current=null;api.current?.stopTouch();if(handle.current)handle.current.style.transform='translate(0,0)';if(stick.current){stick.current.dataset.active='false';stick.current.dataset.running='false';}};
  useEffect(()=>{
   const blur=()=>{reset();jumpPointer.current=null;if(jumpButton.current)jumpButton.current.dataset.active='false';};
   const visibility=()=>{if(document.hidden)blur();};
@@ -19,14 +20,14 @@ export default function TouchControls({api}){
  },[]);
  const prevent=e=>e.preventDefault();
  return <div className="touch-controls" onContextMenu={prevent}>
-  <div className="touch-movement"><div ref={stick} className="joystick" role="group" aria-label="이동 조이스틱" data-active="false"
+  <div className="touch-movement"><div ref={stick} className="joystick" role="group" aria-label="이동 조이스틱. 조금 밀면 걷기, 끝까지 밀면 달리기" data-active="false" data-running="false"
    onPointerDown={e=>{if(pointer.current!==null||e.button!==0)return;e.preventDefault();pointer.current=e.pointerId;e.currentTarget.setPointerCapture(e.pointerId);e.currentTarget.dataset.active='true';move(e);}}
    onPointerMove={e=>{if(e.pointerId===pointer.current){e.preventDefault();move(e);}}}
    onPointerUp={e=>{if(e.pointerId===pointer.current){e.preventDefault();reset();}}}
    onPointerCancel={e=>{if(e.pointerId===pointer.current)reset();}}
    onLostPointerCapture={e=>{if(e.pointerId===pointer.current)reset();}}>
    <div className="joystick-track" aria-hidden="true"/><div ref={handle} className="joystick-handle" aria-hidden="true"><svg viewBox="0 0 24 24"><path d="M12 4v16M4 12h16m-11-5 3-3 3 3m-6 10 3 3 3-3M7 9l-3 3 3 3m10-6 3 3-3 3"/></svg></div>
-  </div><span>이동</span></div>
+  </div><span className="touch-movement-label"><b className="walk-label">이동</b><b className="run-label">달리는 중</b><small>끝까지 밀어 달리기</small></span></div>
   <div className="touch-actions"><span className="touch-look-hint">화면을 드래그해 둘러보기</span><button ref={jumpButton} className="touch-jump" aria-label="점프"
    onPointerDown={e=>{if(jumpPointer.current!==null||e.button!==0)return;e.preventDefault();jumpPointer.current=e.pointerId;e.currentTarget.setPointerCapture(e.pointerId);e.currentTarget.dataset.active='true';api.current?.jump();}}
    onPointerUp={e=>{if(e.pointerId===jumpPointer.current){e.preventDefault();jumpPointer.current=null;e.currentTarget.dataset.active='false';}}}

diff --git a/src/touch-controls.css b/src/touch-controls.css
@@ -11,6 +11,12 @@
  .joystick-handle{position:absolute;left:calc(50% - 27px);top:calc(50% - 27px);width:54px;height:54px;display:grid;place-items:center;border:1px solid #eeeae270;border-radius:50%;background:#eeeae2e8;color:#181a19;pointer-events:none;will-change:transform}
  .joystick-handle svg{width:23px;height:23px;fill:none;stroke:currentColor;stroke-width:1.35;stroke-linecap:round;stroke-linejoin:round}
  .joystick[data-active=true]{border-color:#eeeae278;background:#181c1a90}
+ .joystick[data-running=true]{border-color:#eeeae2bf;box-shadow:0 0 0 4px #eeeae218}
+ .touch-movement-label{text-align:center;line-height:1.5}
+ .touch-movement-label b{font-weight:400}.touch-movement-label small{display:block;font-size:9px;color:#eeeae2a6}
+ .touch-movement-label .run-label{display:none;color:#eeeae2}
+ .joystick[data-running=true]+.touch-movement-label .walk-label{display:none}
+ .joystick[data-running=true]+.touch-movement-label .run-label{display:inline}
  .touch-actions{display:flex;align-items:flex-end;flex-direction:column;gap:16px;padding-bottom:20px}
  .touch-look-hint{max-width:122px;text-align:right;line-height:1.6}
  .touch-jump{width:68px;height:68px;border-radius:50%;border:1px solid #eeeae27a;background:#181c1a90;display:flex;align-items:center;justify-content:center;flex-direction:column;gap:3px;pointer-events:auto;touch-action:none;padding:0}
@@ -18,6 +24,7 @@
  .touch-jump span{font-size:10px;letter-spacing:.06em}
  .touch-jump[data-active=true]{background:#eeeae2;color:#181a19}
  .art-hint{bottom:calc(258px + env(safe-area-inset-bottom));max-width:calc(100% - 44px);white-space:normal;text-align:left}
+ .art-hint button{white-space:nowrap;flex-shrink:0}
 }
 @media(max-width:380px){.touch-controls{left:18px;right:18px}.joystick{width:104px;height:104px}.touch-jump{width:64px;height:64px}}
 @media(max-height:550px) and (pointer:coarse), (max-height:550px) and (max-width:700px){.touch-controls{bottom:calc(67px + env(safe-area-inset-bottom))}.joystick{width:96px;height:96px}.touch-actions{padding-bottom:14px;gap:8px}.touch-look-hint{display:none}.art-hint{bottom:calc(191px + env(safe-area-inset-bottom))}}

diff --git a/src/room-architecture.js b/src/room-architecture.js
@@ -1,14 +1,16 @@
 import * as T from 'three';
+import {roomLighting} from './room-lighting';
 
 export function roomShell(root,room,doors,mats,cube){
  const obstacles=[];
+ const lighting=roomLighting[room.id],strip=new T.MeshBasicMaterial({color:lighting.strip});
  if(room.id===1){
   cube(root,16,.18,5.4,0,5.1,-5.3,mats.ceiling);cube(root,16,.18,5.4,0,5.1,5.3,mats.ceiling);
   cube(root,5.5,.18,5.2,-5.25,5.1,0,mats.ceiling);cube(root,5.5,.18,5.2,5.25,5.1,0,mats.ceiling);
   const liner=mats.wall.clone();liner.color.set(0x9ea4a6);
   cube(root,5,.16,5.2,0,6.45,0,liner);cube(root,.14,1.4,5.2,-2.5,5.7,0,liner);cube(root,.14,1.4,5.2,2.5,5.7,0,liner);
   cube(root,5,1.4,.14,0,5.7,-2.6,liner);cube(root,5,1.4,.14,0,5.7,2.6,liner);
-  const daylight=new T.PointLight(0xcbd9e1,24,11,2);daylight.position.set(0,5.65,0);root.add(daylight);
+  const daylight=new T.PointLight(lighting.sky,24,11,2);daylight.position.set(0,5.65,0);root.add(daylight);
  }else cube(root,16,.18,16,0,5.1,0,mats.ceiling);
  for(const side of ['north','south','east','west']){
   const alongX=side==='north'||side==='south',edge=side==='north'||side==='west'?-8:8,opening=doors.has(side);
@@ -27,12 +29,12 @@ export function roomShell(root,room,doors,mats,cube){
  }
  if(room.id===0){cube(root,2,5,.4,-6.7,2.5,4.6,mats.wall);obstacles.push({x:room.x-6.7,z:room.z+4.6,w:2,d:.4});}
  for(const x of [-6.8,6.8]){
-  cube(root,.16,.015,1.8,x,.12,-7.62,mats.light);
-  const uplight=new T.PointLight(room.color,6.5,5,2);uplight.position.set(x,.35,-7.3);root.add(uplight);
+  cube(root,.16,.015,1.8,x,.12,-7.62,strip);
+  const uplight=new T.PointLight(lighting.fill.color,6.5,5,2);uplight.position.set(x,.35,-7.3);root.add(uplight);
  }
  if(room.id===3||room.id===5){
-  cube(root,11,.025,.055,1,4.9,-7.53,mats.light);
-  for(const x of [-3,2,6]){const wash=new T.PointLight(room.color,8,7,2);wash.position.set(x,4.5,-7.2);root.add(wash);}
+  cube(root,11,.025,.055,1,4.9,-7.53,strip);
+  for(const x of [-3,2,6]){const wash=new T.PointLight(lighting.ceiling.color,8,7,2);wash.position.set(x,4.5,-7.2);root.add(wash);}
  }
  return obstacles;
 }

diff --git a/src/lighting-rig.js b/src/lighting-rig.js
@@ -1,7 +1,7 @@
 import {PointLight,SpotLight,Vector3} from 'three';
 
 // Keep the shader's light/shadow counts constant across every room. The
-// fixtures retain their original colour, intensity and world-space placement.
+// fixtures retain each room's colour, intensity and world-space placement.
 export function lightingRig(scene,groups,corridors){
  scene.updateMatrixWorld(true);
  const describe=light=>({light,position:light.getWorldPosition(new Vector3()),target:light.isSpotLight?light.target.getWorldPosition(new Vector3()):null});

diff --git a/README.md b/README.md
@@ -46,9 +46,9 @@ React는 관람에 필요한 UI와 상태를 구성하고, Three.js는 공간과
 
 ## 주요 경험
 
-- **공간 관람:** 키보드·터치로 열 개의 연결된 방을 이동하고, 드래그로 시선을 조작합니다. 데스크톱은 Space로 점프하며, 모바일은 대각선·속도 조절이 가능한 조이스틱과 점프 버튼을 사용합니다.
-- **작품 감상:** 회화를 확대하거나 조각을 직접 회전하고, 자동 회전과 시선 초기화를 사용할 수 있습니다.
-- **분위기 연출:** 안으로 서서히 다가오는 입장 화면과 첫 조작부터 시작하는 따뜻한 피아노 계열의 배경음과 또렷한 발소리·효과음으로 전시의 분위기를 구성했습니다.
+- **공간 관람:** 키보드·터치로 열 개의 연결된 방을 이동하고, 드래그로 시선을 조작합니다. 데스크톱은 Space로 점프하며, 모바일은 조이스틱을 조금 밀면 걷고 끝까지 밀면 달리며, 별도의 버튼으로 점프합니다.
+- **작품 감상:** 회화를 확대하거나 조각을 직접 회전하고, 자동 회전과 시선 초기화를 사용할 수 있습니다. 조각과 회화에는 각각의 형태와 화면에 맞춘 별도의 설명을 제공합니다.
+- **분위기 연출:** 노을·달빛·바다·안개 등 방의 주제에 맞춰 조명의 색, 방향과 부드러움을 달리했습니다. 안으로 서서히 다가오는 입장 화면과 첫 조작부터 시작하는 따뜻한 피아노 계열의 배경음과 또렷한 발소리·효과음으로 전시의 분위기를 구성했습니다.
 - **제작 과정 탐색:** 여섯 챕터의 소개 페이지에서 기획과 디자인 과정을 살펴보고, 실제 3D 로고를 조작할 수 있습니다.
 - **다양한 관람 환경:** 데스크톱·태블릿·모바일 화면과 키보드 조작, 시스템의 움직임 감소 설정을 고려했습니다.
 
